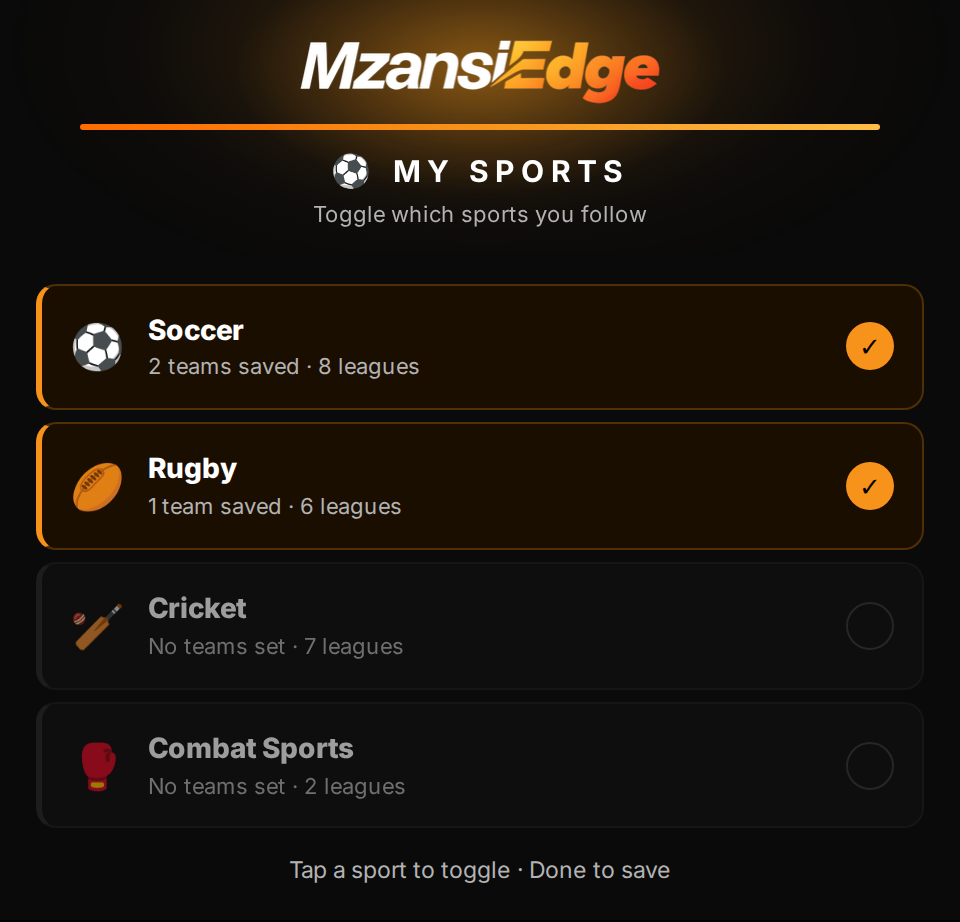
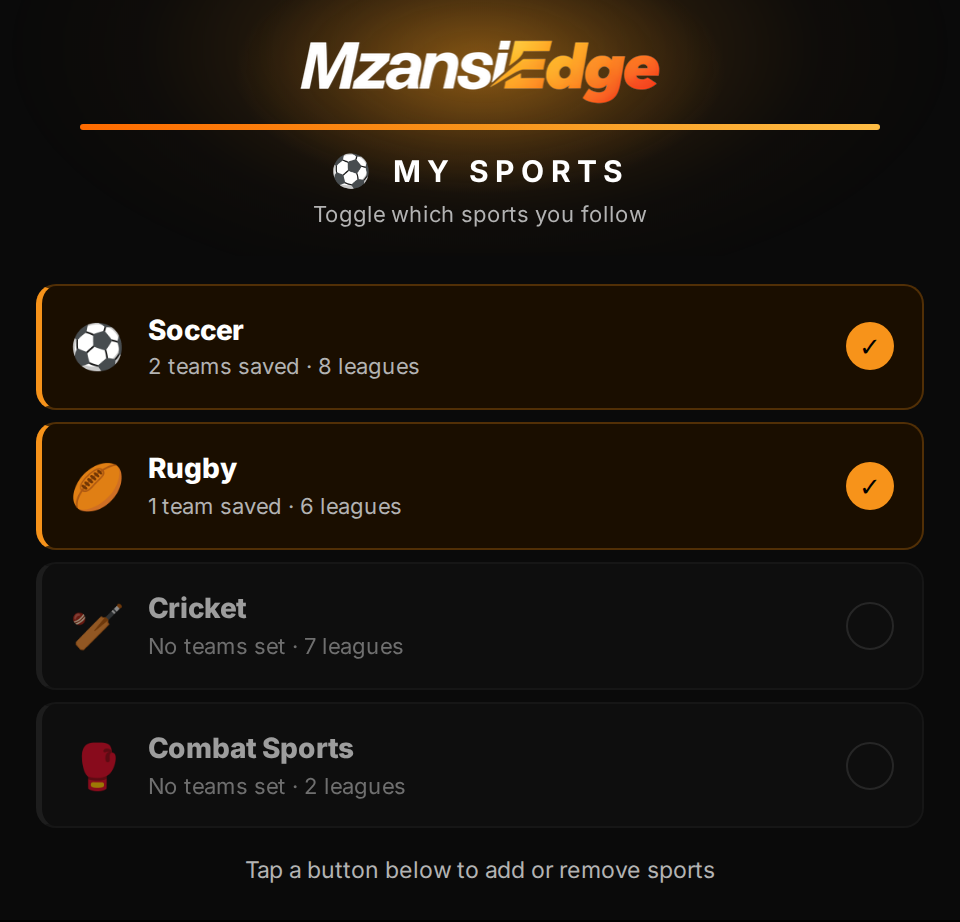
canonical(qa-gallery): Waves AV + AW + settings_sports copy fix — 🎉 ALL 51 TEMPLATES DESIGN-LOCKED
3 changes in this commit:

1. settings_sports COPY FIX — bottom hint changed from
   "Tap a sport to toggle · Done to save"
   to
   "Tap a button below to add or remove sports"
   Per Paul's review: Telegram users tap inline keyboard buttons below
   the image, not elements within the image itself. Fix flagged a
   broader audit pattern — but only this card had the misleading copy
   ("tap [thing in image]" vs "tap [button below]").

2. Wave AV — bookmaker_directory (Batch 10 · 7/8):
   - Brand-orange logo glow + "BOOKMAKERS" title + subtitle
   - 5 SA bookmaker rows with orange 3px left-border
   - Domain as JetBrains Mono orange code-pill (background tint)
   - Inline referral disclosure replaces bordered footer
   - 1 variant

3. Wave AW — home_winners (Batch 10 · 8/8 — CLOSE ALL):
   - DETAIL 480×620 fixed canvas
   - Brand-orange logo glow (multi-tier surface)
   - "RECENT PERFORMANCE" orange uppercase label + "Last 5 Winning Edges"
     + "R100 stake · actual returns" sub
   - Tier-coloured row left-borders (Diamond cyan / Gold yellow /
     Silver grey / Bronze orange)
   - Tier-coloured return values: Diamond cyan, Gold orange, Silver +
     Bronze green ("wins are wins" without higher-tier prestige colour)
   - R100→ monospace stake-arrow above each return
   - RG copy preserved per CLAUDE.md notification law 5 (RG footer on
     proof-of-record surfaces) — but border-top divider removed
   - 2 variants: full (5 wins, mixed tiers), empty
[…]

Changed region(s): [[0.25, 0.9111, 0.75, 0.9718]]

diff --git a/static/qa-gallery/canonical/index.html b/static/qa-gallery/canonical/index.html
@@ -261,7 +261,7 @@
 <!-- ─────────────────────────────────────────────────────────────────────── -->
 
 <div class="status-section">
-  <h2 class="status-heading canonical">✅ Canonical <span class="count">(49 design-locked · 96 PNGs)</span></h2>
+  <h2 class="status-heading canonical">✅ Canonical <span class="count">(51 design-locked · 100 PNGs) — DESIGN SYSTEM COMPLETE</span></h2>
 
   <!-- ── match_detail.html (2 variants — with-edge / no-edge) ── -->
   <section class="template-block">
@@ -2422,6 +2422,89 @@ if user_tier == "gold":
       <div class="variant"><div class="variant-header"><span class="variant-name">help_canonical.png</span><span class="variant-tag">4 command groups · 11 commands</span></div><img src="help_canonical.png" alt="help"></div>
     </div>
   </section>
+
+  <!-- ── bookmaker_directory.html (Wave AV — Batch 10 · Story quiz + utility 7/8) ── -->
+  <section class="template-block">
+    <div class="tpl-header">
+      <span class="tpl-name">bookmaker_directory.html</span>
+      <span class="tpl-status canonical">✅ Canonical</span>
+      <span class="tpl-meta">Approved 2026-04-27 · LIST adaptive · brand-orange glow + bookmaker-row list</span>
+    </div>
+    <p class="tpl-summary">
+      SA bookmaker directory. Brand-orange logo glow + "BOOKMAKERS" title + 5 bookmaker rows
+      (Betway / Hollywoodbets / Sportingbet / SupaBets / GBets) with badge emoji + name + offer
+      + domain shown as JetBrains Mono code-pill. Trailing referral-fee + RG hint. No footer divider.
+    </p>
+
+    <div class="design-notes">
+      <h4>Design notes</h4>
+      <ul>
+        <li><strong>Glow type</strong>: brand-orange.</li>
+        <li><strong>Header changes from prod</strong>: removed <code>linear-gradient</code> background and <code>border-bottom</code>. Subtitle "SA bookmakers we track for live odds" added.</li>
+        <li><strong>Bookmaker rows</strong>: orange 3px left-border (preserved from prod) + #111 bg + 1px border. 22px badge emoji + bold name + secondary offer text.</li>
+        <li><strong>Domain as code-pill</strong>: JetBrains Mono with orange-tinted background + 3px border-radius. Matches the canonical orange code-pill pattern (used on <code>/subscribe</code>, <code>/status</code>, plan codes, etc.).</li>
+        <li><strong>Referral disclosure inline</strong>: "MzansiEdge earns a referral fee · Always bet responsibly" — small dim grey text at the bottom. Consolidated from prod's bordered-footer treatment to a single line. Required disclosure stays visible without dominating the card.</li>
+        <li><strong>No footer divider</strong> per universal §7.</li>
+      </ul>
+    </div>
+
+    <div class="impl-targets">
+      <h4>Implementer agent — targets</h4>
+      <ul>
+        <li>Replace <code>bot/card_templates/bookmaker_directory.html</code> with the canonical (lift from <code>/tmp/bookmaker_directory_canonical.html</code>). Insert <code>.logo-glow</code> + <code>.logo-glow-screen</code>; add subtitle; restyle <code>.bk-domain</code> as orange code-pill (background tint + padding + border-radius); replace bordered <code>.footer</code> with single centred hint-line below the bk-list.</li>
+        <li><code>bot/card_data_adapters.py:build_bookmaker_directory_data</code> already emits the right shape (<code>bookmakers[]</code> with <code>badge</code>, <code>name</code>, <code>offer</code>, <code>domain</code>). No data-side changes needed.</li>
+        <li>Acceptance: <code>latest/bookmaker_directory.png</code> matches <code>canonical/bookmaker_directory_canonical.png</code>. Brand-orange logo glow visible. 5 bookmaker rows with orange left-border. Domain as code-pill. Referral disclosure at bottom (no border-top). No footer.</li>
+      </ul>
+    </div>
+
+    <div class="variants">
+      <div class="variant"><div class="variant-header"><span class="variant-name">bookmaker_directory_canonical.png</span><span class="variant-tag">5 SA bookmakers · 1 variant</span></div><img src="bookmaker_directory_canonical.png" alt="bookmaker_directory"></div>
+    </div>
+  </section>
+
+  <!-- ── home_winners.html (Wave AW — Batch 10 · Story quiz + utility 8/8 — CLOSE ALL) ── -->
+  <section class="template-block">
+    <div class="tpl-header">
+      <span class="tpl-name">home_winners.html</span>
+      <span class="tpl-status canonical">✅ Canonical</span>
+      <span class="tpl-meta">Approved 2026-04-27 · DETAIL 480×620 · brand-orange glow + tier-coloured row borders</span>
+    </div>
+    <p class="tpl-summary">
+      Last-5-winners performance card. Sent for proof-of-track-record / social proof. Brand-orange logo glow
+      + "RECENT PERFORMANCE" label + "Last 5 Winning Edges" headline + "R100 stake · actual returns" sub.
+      5 win rows with sport emoji + match + bet line + R100→{return} display. Each row's left-border AND
+      return value colour driven by the edge tier (Diamond cyan / Gold orange / Silver+Bronze green for
+      successful smaller-tier hits). RG copy at bottom (locked per CLAUDE.md notification law 5).
+      DETAIL 480×620 fixed canvas. <strong>Closes the entire 51-card design system.</strong>
+    </p>
+
+    <div class="design-notes">
+      <h4>Design notes</h4>
+      <ul>
+        <li><strong>Glow type</strong>: brand-orange (multi-tier surface — shows wins from all 4 tiers).</li>
+        <li><strong>Header changes from prod</strong>: removed prod's hero-glow div + thin gradient divider. Replaced with the canonical brand-orange logo glow. "RECENT PERFORMANCE" label is now the orange uppercase tracked label; "Last 5 Winning Edges" is 20px bold (was 22px — slightly tighter to fit).</li>
+        <li><strong>Tier-coloured row borders</strong>: each win row gets a 3px tier-color left-border via <code>--row-tier-color</code> CSS var on <code>.tier-{tier}</code> classes. Matches the per-tier identity convention across the canonical set.</li>
+        <li><strong>Tier-coloured return values</strong>: Diamond cyan, Gold brand-orange, Silver+Bronze green. Green for the smaller tiers signals "wins are wins" without the higher-tier prestige colour. JetBrains Mono 17px bold.</li>
+        <li><strong>R100→ arrow</strong>: small monospace label above the value to make the stake → return clear at a glance.</li>
+        <li><strong>RG copy preserved</strong>: "Past performance is not a guarantee of future results" stays — required by CLAUDE.md notification content laws (rule 5 — RG footer on monthly reports / re-engagement / proof-of-record). Removed the <code>border-top</code> divider above it; now sits as plain centred dim text.</li>
+        <li><strong>DETAIL 480×620 fixed</strong>: card always uses the fixed canvas. With 5 wins, body fills naturally; empty state has a centred italic placeholder.</li>
+      </ul>
+    </div>
+
+    <div class="impl-targets">
+      <h4>Implementer agent — targets</h4>
+      <ul>
+        <li>Replace <code>bot/card_templates/home_winners.html</code> with the canonical (lift from <code>/tmp/home_winners_canonical.html</code>). Drop the absolute-positioned <code>.hero-glow</code> div + the <code>.divider</code> linear-gradient line; insert canonical <code>.logo-glow</code> + <code>.logo-glow-screen</code>; restyle <code>.row</code> with tier-coloured 3px left-border driven by <code>.tier-{tier}</code> classes; restyle <code>.return-value</code> with tier-coloured class variants; remove <code>border-top</code> from the RG <code>.footer</code> + restyle as plain centred line.</li>
+        <li><code>bot/card_data_adapters.py:build_home_winners_data</code> already emits the right shape (<code>wins[]</code> with <code>match</code>, <code>bet_line</code>, <code>return_zar</code>, <code>sport_emoji</code>, <code>tier</code>). No data-side changes needed.</li>
+        <li>Acceptance: <code>latest/home_winners.png</code> matches <code>canonical/home_winners_canonical_full.png</code> when wins exist, <code>_empty.png</code> when none. Brand-orange logo glow. Tier-coloured row borders + return values. RG copy at bottom (no border-top divider). Fits 480×620.</li>
+      </ul>
+    </div>
+
+    <div class="variants">
+      <div class="variant"><div class="variant-header"><span class="variant-name">home_winners_canonical_full.png</span><span class="variant-tag">5 wins · Gold/Diamond/Silver/Bronze mix</span></div><img src="home_winners_canonical_full.png" alt="home_winners full"></div>
+      <div class="variant"><div class="variant-header"><span class="variant-name">home_winners_canonical_empty.png</span><span class="variant-tag">No resolved picks yet</span></div><img src="home_winners_canonical_empty.png" alt="home_winners empty"></div>
+    </div>
+  </section>
 </div>
 
 <!-- ─────────────────────────────────────────────────────────────────────── -->
@@ -2429,7 +2512,7 @@ if user_tier == "gold":
 <!-- ─────────────────────────────────────────────────────────────────────── -->
 
 <div class="status-section">
-  <h2 class="status-heading in-review">🔄 In review <span class="count">(2 live bot renders — awaiting design lock)</span></h2>
+  <h2 class="status-heading in-review">🔄 In review <span class="count">(0 live bot renders — all 51 templates design-locked!)</span></h2>
 
   <div class="design-notes" style="margin-bottom:24px">
     <h4>System rollout — dispatch order (Paul reviews each batch)</h4>
@@ -2449,8 +2532,6 @@ if user_tier == "gold":
   </div>
 
   <div class="review-grid">
-    <div class="review-card"><div class="review-card-header"><span class="review-card-name">bookmaker_directory.html</span><span class="review-card-tag">In review</span></div><img src="bookmaker_directory.png" alt="bookmaker_directory.html"></div>
-    <div class="review-card"><div class="review-card-header"><span class="review-card-name">home_winners.html</span><span class="review-card-tag">In review</span></div><img src="home_winners.png" alt="home_winners.html"></div>
   </div>
 </div>
 
